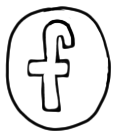
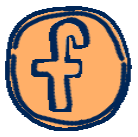
s

diff --git a/pratique.html b/pratique.html
@@ -33,7 +33,29 @@
 			<img style="display:block; margin:0 auto;" src="img/map.svg" />
 		</section>
 
+		<section>
+			<h1>Fiche Technique</h1>
+			<img style="display:block; margin:0 auto; width:50%;" src="img/fiche.jpg" />
+			<a style="display:block; width:100%;text-align: center;" href="">Télécharger fiche technique</a>
+		</section>
 
+		<section>
+			<h1>Situation</h1>
+			<p>Le Stamm Studio se situe à Porrentruy, petite ville jurassienne entourée d’une campagne apaisante. Porrentruy est bien desservi par les CFF (trains et bus), et le Stamm est à 7 minutes à pied de la gare.</p>
+			<br/><br/>
+			<img style="width:50%; height: 20%;" src="https://upload.wikimedia.org/wikipedia/commons/4/4e/Porrentruy_%28JU%29.jpg"/>
+			<iframe style="display:inline-block;" width="49%" height="500px" src="https://www.openstreetmap.org/export/embed.html?bbox=7.077512741088868%2C47.41489379555353%2C7.086380124092102%2C47.41797559156517&amp;layer=mapnik&amp;marker=47.41643653106183%2C7.0819491147994995" style="border: 1px solid black"></iframe>
+			<br/><br/>
+			<p>Réseau autour du Stamm Studio:<br/><br/>
+				- Belfort<br/>
+				- Théâtre du Jura, Délémont: 20 min voiture / 35 min de train<br/>
+				- Filature de Mulhouse: 1h voiture<br/>
+				- Basel SBB: 1h10, liasion de train directe<br/>
+				- Bienne: 1h, liaison de train directe<br/>
+				- Gare Gelfor-Montebéliard TGV: 30 min voiture / 30 min et train</p>
+				<br/><br/>
+			<img style="display:block; margin:0 auto; width:50%;" src="img/sit.png" />
+		</section>
 
 		<footer>
 			<ul>
@@ -42,12 +64,10 @@
 				<li>Jura – Suisse</li>
 			</ul>
 			<ul>
-				<li><img style="width:20%" src="img/mail.png" /></li>
+				<li><img src="img/mail.png" /></li>
 			</ul>
 			<ul>
-				<li><img style="width:7%" src="img/fb.png" /></li>
-				<li><img style="width:7%" src="img/insta.png" /></li>
-			</ul>
+				<li><img src="img/fb.png" />     <img style="width:20%" src="img/insta.png" /></li></ul>
 		</footer>
 	</div>
 		

diff --git a/stamm.html b/stamm.html
@@ -47,29 +47,7 @@
 		</section>
 
 
-		<section>
-			<h1>Fiche Technique</h1>
-			<img style="display:block; margin:0 auto; width:50%;" src="img/fiche.jpg" />
-			<a style="display:block; width:100%;text-align: center;" href="">Télécharger fiche technique</a>
-		</section>
-
-		<section>
-			<h1>Situation</h1>
-			<p>Le Stamm Studio se situe à Porrentruy, petite ville jurassienne entourée d’une campagne apaisante. Porrentruy est bien desservi par les CFF (trains et bus), et le Stamm est à 7 minutes à pied de la gare.</p>
-			<br/><br/>
-			<img style="width:50%; height: 20%;" src="https://upload.wikimedia.org/wikipedia/commons/4/4e/Porrentruy_%28JU%29.jpg"/>
-			<iframe style="display:inline-block;" width="49%" height="500px" src="https://www.openstreetmap.org/export/embed.html?bbox=7.077512741088868%2C47.41489379555353%2C7.086380124092102%2C47.41797559156517&amp;layer=mapnik&amp;marker=47.41643653106183%2C7.0819491147994995" style="border: 1px solid black"></iframe>
-			<br/><br/>
-			<p>Réseau autour du Stamm Studio:<br/><br/>
-				- Belfort<br/>
-				- Théâtre du Jura, Délémont: 20 min voiture / 35 min de train<br/>
-				- Filature de Mulhouse: 1h voiture<br/>
-				- Basel SBB: 1h10, liasion de train directe<br/>
-				- Bienne: 1h, liaison de train directe<br/>
-				- Gare Gelfor-Montebéliard TGV: 30 min voiture / 30 min et train</p>
-				<br/><br/>
-			<img style="display:block; margin:0 auto; width:50%;" src="img/sit.png" />
-		</section>
+		
 
 		<section>
 			<h1>L'Équipe</h1>
@@ -131,12 +109,10 @@
 				<li>Jura – Suisse</li>
 			</ul>
 			<ul>
-				<li><img style="width:20%" src="img/mail.png" /></li>
+				<li><img src="img/mail.png" /></li>
 			</ul>
 			<ul>
-				<li><img style="width:7%" src="img/fb.png" /></li>
-				<li><img style="width:7%" src="img/insta.png" /></li>
-			</ul>
+				<li><img src="img/fb.png" />     <img style="width:20%" src="img/insta.png" /></li></ul>
 		</footer>
 	</div>
 		

diff --git a/style.css b/style.css
@@ -22,11 +22,15 @@
 }
 body{
 	font-family: "grotesk", sans-serif;
+	background: #FFE8C8;
+	color: #002657;
 }
-h1,h2,h3,h4,h5{
+h1,h2,h3,h4,h5,a{
 	font-family: "grndst";
-	color: white;
-	-webkit-text-stroke: 2px black;
+	background: url(img/bg.jpg) 0 0 / cover no-repeat;
+	-webkit-background-clip: text;
+	-webkit-text-fill-color: transparent;
+	text-transform: uppercase;
 }
 p{
 	font-family: "grotesk";
@@ -48,8 +52,8 @@ nav ul{
 }
 nav ul li{
 	align-self: center;
-	-webkit-text-stroke: 1.5px black; 
-	color: white;
+	-webkit-text-stroke: 1.5px #002657; 
+	color: #FFAF68;
 }
 nav ul li:hover{
 	-webkit-text-stroke: 2px black; 
@@ -77,11 +81,11 @@ nav li img{
 	font-weight: 900;
 	font-size: 3em;
 	align-self: center;
-	-webkit-text-stroke: 3px black; 
 	color: white;
 	text-align: center;
 	padding-top: 150px;
-	background: white;
+	background: url("img/menu.jpg") #FFE8C8;
+	background-size:cover ;
 	z-index: 998;
 	display: none;
 }
@@ -90,7 +94,7 @@ nav li img{
 	cursor: pointer;
 }
 #menu li:hover{
-	-webkit-text-stroke: 4px black; 
+	-webkit-text-stroke: 4px #002657; 
 }
 #cont{
 	width: 70%;
@@ -114,12 +118,10 @@ nav li img{
 .slideshow-container h1{
 	position: absolute;
 	font-size: 4em;
-	top: 10%;
-	left: 5%;
+	top: 40%;
 	z-index: 99;
 	word-break: keep-all;
-	color: white;
-	-webkit-text-stroke: 2px black;
+	text-align: center;
 	width: 100%;
 }
 .mySlides{
@@ -131,7 +133,7 @@ nav li img{
 	width: 100%;
 	height: 100%;
 	object-fit: cover;
-	filter: grayscale(100%) brightness(150%) contrast(150%);
+	filter:contrast(150%);
 	z-index: 0;
 }
 section p{
@@ -178,8 +180,10 @@ footer{
 	text-align: center;
 	margin-top: 50px;
 	margin-bottom: 50px;
-	font-family:"grndst" ;
 }
 footer ul{
 	margin-top: 20px;
+}
+footer li img{
+	max-height: 50px;
 }

diff --git a/index.html b/index.html
@@ -48,26 +48,6 @@
 		</section>
 
 		<section>
-			<h1>Actualités</h1>
-			<div class="grid">
-				<div class="item">
-					<h2>Titre</h2>
-					<img src=""/>
-				</div>
-
-				<div class="item">
-					<h2>Titre</h2>
-					<img src=""/>
-				</div>
-
-				<div class="item">
-					<h2>Titre</h2>
-					<img src=""/>
-				</div>
-			</div>
-		</section>
-
-		<section>
 			<h1>Événements à venir</h1>
 			<div class="grid">
 				<div class="item">
@@ -87,6 +67,27 @@
 			</div>
 		</section>
 
+		<section>
+			<h1>Actualités</h1>
+			<div class="grid">
+				<div class="item">
+					<h2>Titre</h2>
+					<img src=""/>
+				</div>
+
+				<div class="item">
+					<h2>Titre</h2>
+					<img src=""/>
+				</div>
+
+				<div class="item">
+					<h2>Titre</h2>
+					<img src=""/>
+				</div>
+			</div>
+		</section>
+
+		
 
 		<footer>
 			<ul>
@@ -95,12 +96,10 @@
 				<li>Jura – Suisse</li>
 			</ul>
 			<ul>
-				<li><img style="width:20%" src="img/mail.png" /></li>
+				<li><img src="img/mail.png" /></li>
 			</ul>
 			<ul>
-				<li><img style="width:7%" src="img/fb.png" /></li>
-				<li><img style="width:7%" src="img/insta.png" /></li>
-			</ul>
+				<li><img src="img/fb.png" />     <img style="width:20%" src="img/insta.png" /></li></ul>
 		</footer>
 	</div>
 		

diff --git a/reservations.html b/reservations.html
@@ -35,7 +35,7 @@
 			</p>
 			<div class="form">
 			</div>
-			<iframe style="display:block; margin:20px auto 0 auto;" src="https://calendar.google.com/calendar/embed?src=info%40stammstudio.com&ctz=Europe%2FZurich" style="border: 0" width="800" height="600" frameborder="0" scrolling="no"></iframe>
+			<iframe id="calendar" style="display:block; margin:20px auto 0 auto;" src="https://calendar.google.com/calendar/embed?height=600&wkst=1&ctz=Europe%2FZurich&bgcolor=%23ffe8c8&showCalendars=0&showTabs=0&showPrint=0&title&src=aW5mb0BzdGFtbXN0dWRpby5jb20&color=%233F51B5" style="border-width:0" width="800" height="600" frameborder="0" scrolling="no"></iframe>
 		</section>
 
 		<section>
@@ -65,12 +65,10 @@
 				<li>Jura – Suisse</li>
 			</ul>
 			<ul>
-				<li><img style="width:20%" src="img/mail.png" /></li>
+				<li><img src="img/mail.png" /></li>
 			</ul>
 			<ul>
-				<li><img style="width:7%" src="img/fb.png" /></li>
-				<li><img style="width:7%" src="img/insta.png" /></li>
-			</ul>
+				<li><img src="img/fb.png" />     <img style="width:20%" src="img/insta.png" /></li></ul>
 		</footer>
 	</div>
 		

diff --git a/benevoles.html b/benevoles.html
@@ -56,12 +56,10 @@
 				<li>Jura – Suisse</li>
 			</ul>
 			<ul>
-				<li><img style="width:20%" src="img/mail.png" /></li>
+				<li><img src="img/mail.png" /></li>
 			</ul>
 			<ul>
-				<li><img style="width:7%" src="img/fb.png" /></li>
-				<li><img style="width:7%" src="img/insta.png" /></li>
-			</ul>
+				<li><img src="img/fb.png" />     <img style="width:20%" src="img/insta.png" /></li></ul>
 		</footer>
 	</div>
 		

diff --git a/evenements.html b/evenements.html
@@ -76,12 +76,10 @@
 				<li>Jura – Suisse</li>
 			</ul>
 			<ul>
-				<li><img style="width:20%" src="img/mail.png" /></li>
+				<li><img src="img/mail.png" /></li>
 			</ul>
 			<ul>
-				<li><img style="width:7%" src="img/fb.png" /></li>
-				<li><img style="width:7%" src="img/insta.png" /></li>
-			</ul>
+				<li><img src="img/fb.png" />     <img style="width:20%" src="img/insta.png" /></li></ul>
 		</footer>
 	</div>
 		
